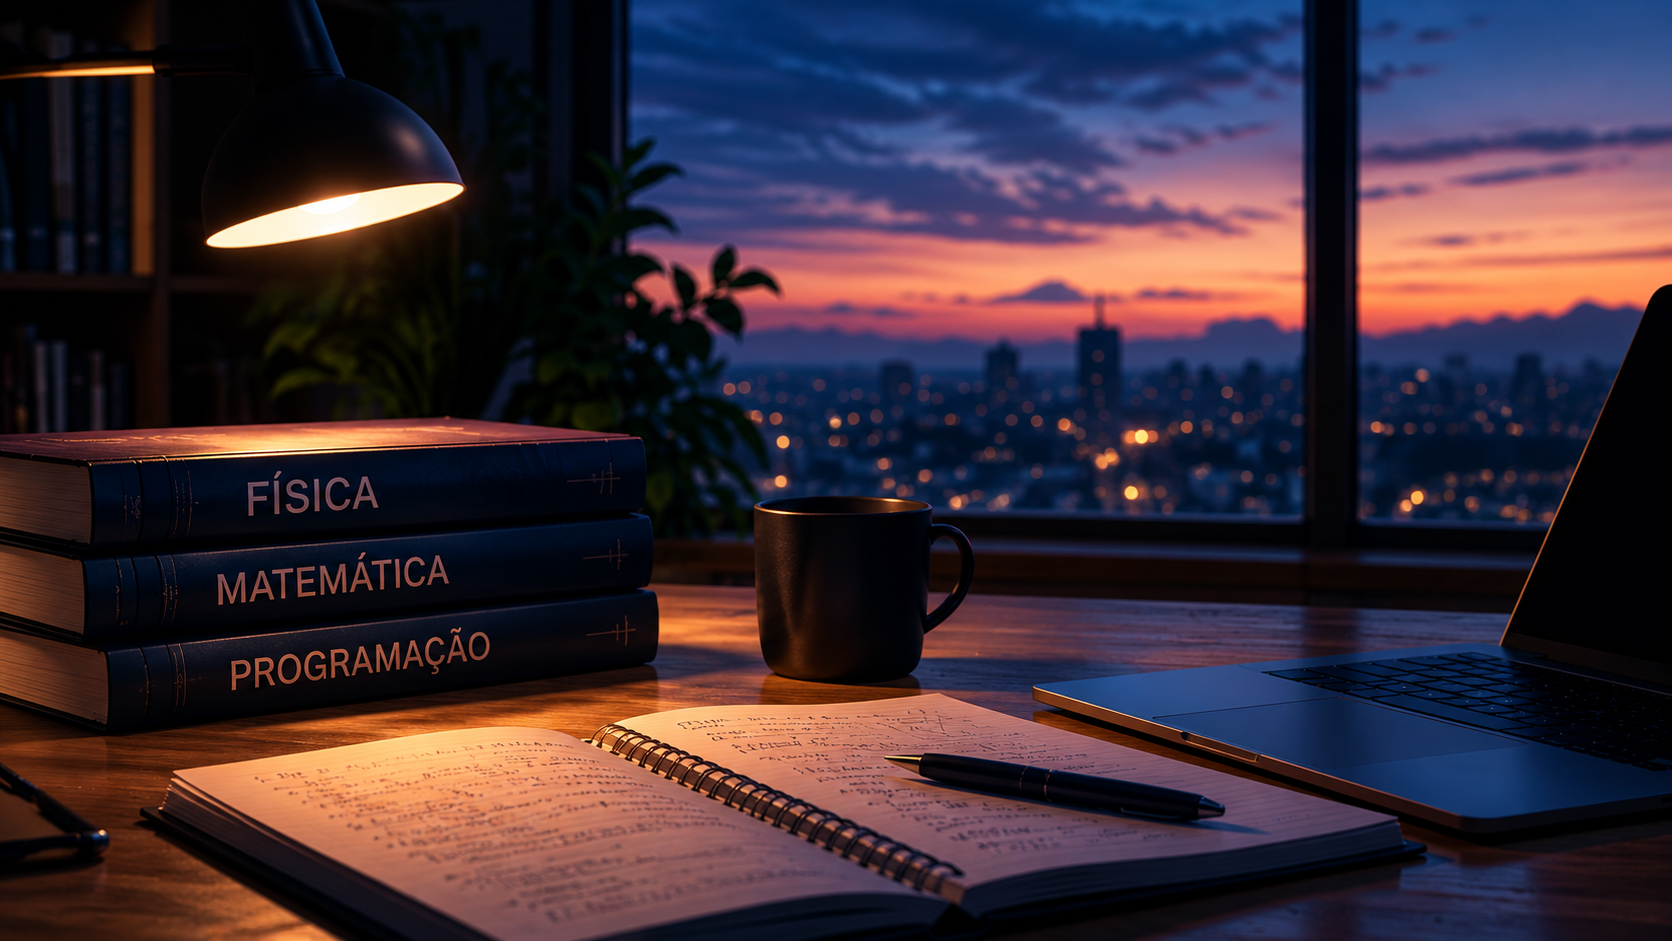
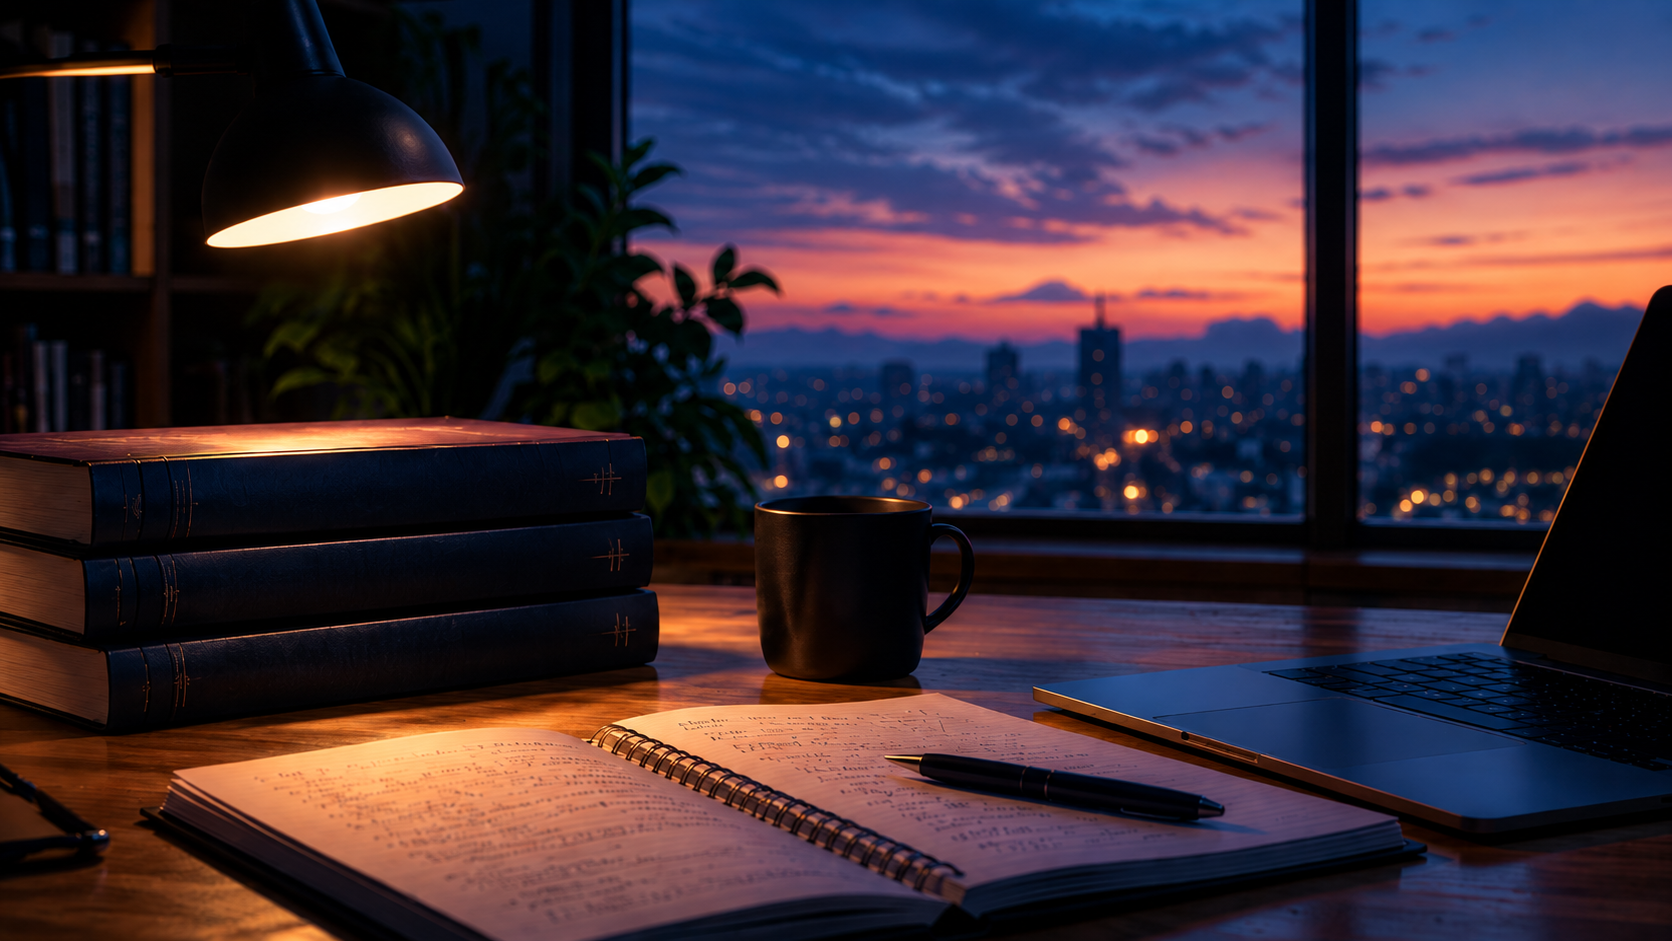
improved login screen

diff --git a/src/app/pages/login/login.css b/src/app/pages/login/login.css
@@ -1,5 +1,6 @@
 * {
-    font-family: 'Lucida Sans', 'Lucida Sans Regular', 'Lucida Grande', 'Lucida Sans Unicode', Geneva, Verdana, sans-serif;
+    box-sizing: border-box;
+    font-family:'Segoe UI', Tahoma, Geneva, Verdana, sans-serif;
 }
 
 .login-background {
@@ -15,6 +16,15 @@
     filter: blur(3px);
 }
 
+h1 {
+    position: fixed;
+    color: white;
+    margin-top: 400px;
+    margin-left: 220px;
+
+    font-size: 50px;
+}
+
 .login-icon {
     background-color: rgb(255, 255, 255);
 }
@@ -27,7 +37,7 @@ div.icons {
 }
 
 #logo {
-    max-width: 200px;
+    max-width: 250px;
     max-height: auto;
 
     margin-bottom: 50px;
@@ -35,13 +45,18 @@ div.icons {
 
 #google-icon, #apple-icon {
     padding: 10px 10px;
-    max-width: 25px;
-    max-height: 25px;
+    max-width: 50px;
+    max-height: 50px;
     background-color: rgb(255, 255, 255);
     border: 1px solid rgb(206, 206, 206);
     border-radius: 50%;
 
     gap: 10px;
+}
+
+#google-icon:hover, #apple-icon:hover {
+    background-color: rgb(231, 231, 231);
+    cursor: pointer;
 }
 
 .login-wrapper {
@@ -64,24 +79,39 @@ div.icons {
 }
 
 .login-form-container {
-    width: 50%;
+    width: 100%;
+    max-width: 450px;
     display: flex;
     justify-content: center;
 
-    padding: 8vw 15px;
+    padding: 5vw 15px;
+    margin: 0 20px;
 
     border: 1px solid rgba(190, 190, 190, 0.87);
     border-radius: 15px;
+
+    box-shadow: 0 0 5px 5px rgb(241, 241, 241);
+}
+
+.user,
+.password {
+    width: 100%;
+    max-width: 400px;
 }
 
 input[type="text"],
 input[type="password"] {
     border-radius: 15px;
-    border: 1px solid black;
+    border: 1px solid rgba(0, 0, 0, 0.534);
 
-    width: 400px;
+    width: 100%;
+    max-width: 400px;
     padding: 8px 16px;
+
+    margin-bottom: 15px;
 }
+
+
 
 .login-line {
     display: flex;
@@ -92,7 +122,30 @@ input[type="password"] {
 }
 
 button {
+    margin-top: 20px;
     padding: 6px 16px;
+    border-radius: 15px;
+    border: 1px solid rgba(129, 129, 129, 0);
+    background: linear-gradient(to right, rgb(0, 89, 255), rgb(111, 0, 255));
+    color: white;
+
+    box-shadow: 1px 2px 1px rgba(214, 214, 214, 0.616);
+
+    transform: scale(1.2);
+}
+
+button:hover {
+    cursor: pointer;
+    background-color: rgb(0, 132, 255);
+    background: linear-gradient(to right, rgb(0, 67, 192), rgb(73, 0, 168));
+}
+
+#forgot-pass {
+    text-decoration: none;
+}
+
+#forgot-pass:visited {
+    color:rgb(58, 58, 209)
 }
 
 .login-form {
@@ -101,4 +154,31 @@ button {
     justify-content: center;
     align-items: center;
     gap: 30px;
+
+    width: 100%;
+}
+
+@media (max-width: 768px) {
+    .login-wrapper {
+        width: 100%;
+        max-width: 100%;
+        right: 0;
+        border-left: none;
+
+        background-color: rgba(255, 255, 255, 0);
+    }
+
+    .login-form-container {
+        padding: 8vw 25px;
+        background-color: rgb(255, 255, 255);
+        box-shadow: 0 0;
+    }
+
+    .login-form-container {
+        margin: 0 20px;
+    }
+
+    div.icons {
+        gap: 20px;
+    }
 }

diff --git a/src/app/pages/login/login.html b/src/app/pages/login/login.html
@@ -1,4 +1,9 @@
-<img class="login-background" src="/img/background-1.png">
+<link rel="preconnect" href="https://fonts.googleapis.com">
+<link rel="preconnect" href="https://fonts.gstatic.com" crossorigin>
+<link href="https://fonts.googleapis.com/css2?family=Cormorant+Garamond:ital,wght@0,300..700;1,300..700&family=DM+Sans:ital,opsz,wght@0,9..40,100..1000;1,9..40,100..1000&family=Scoutie+Sans:ital,wght@0,200..800;1,200..800&display=swap" rel="stylesheet">
+
+
+<img class="login-background" src="/img/background-2.png">
 <div class="login-wrapper">
     <div class="login-form-container">
         <form class="login-form">
@@ -15,7 +20,7 @@
             </label>
             <div class="login-line">
                 <label for="keep"><input type="checkbox" id="keep"> Manter-se conectado</label>
-                <label><a>Esqueci a senha</a></label>
+                <label><a id="forgot-pass" href="https://www.youtube.com/watch?v=DLzxrzFCyOs&list=RDDLzxrzFCyOs&start_radio=1"><b>Esqueci a senha</b></a></label>
             </div>
             <button class="enter-login">Entrar</button>
         </form>
